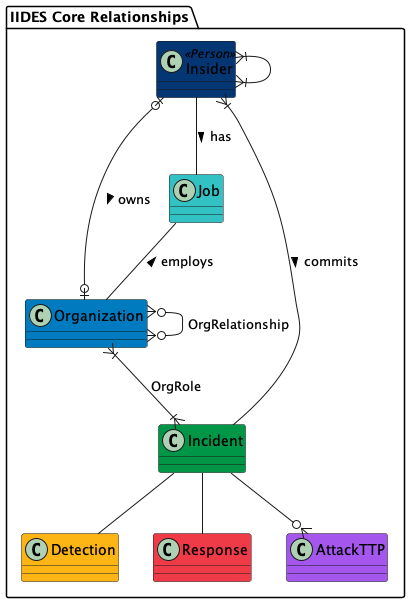
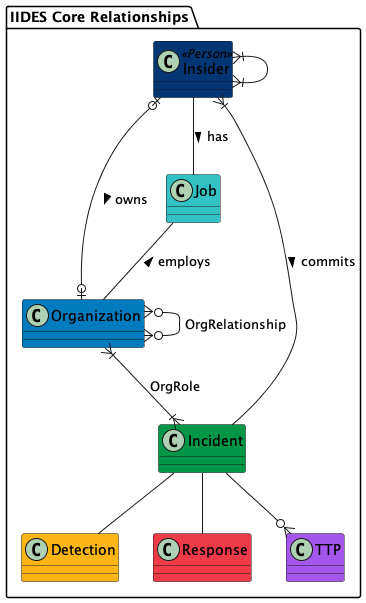
Change attackTTP to TTP

diff --git a/generate_erd.py b/generate_erd.py
@@ -24,7 +24,7 @@ color_map = {
     'Response': '#EF3A47',
     'Legal Response': '#f9b8bd',
     'Stressor': '#b0d0ed',
-    'Attack TTP': '#A456ED',
+    'TTP': '#A456ED',
     'State Vocab': '#FFFFFF',
     'Insider Relationship Vocab': '#FFFFFF',
     'Country Vocab': '#FFFFFF',
@@ -135,7 +135,7 @@ relationships = '''
     LegalResponse --|{ CourtCase
     Organization --|{ Stressor
     Stressor }|-- Insider
-    Incident --o{ AttackTTP
+    Incident --o{ TTP
 '''
 f.write(relationships)
 

diff --git a/documentation/WhitePaper.md b/documentation/WhitePaper.md
@@ -8,7 +8,7 @@ Version: 0.1, Revision 1
 ## Background
 
 - bit about MERIT
-- but about our other research
+- bit about our other research
 - users: researchers, analysts, risk managers, practitioners, investigators, simulations/exercises
 
 
@@ -53,6 +53,8 @@ Legal
 
 ## IIDES
 
+IIDES is split into three different 
+
 ### Core Components
 
 The core components of IIDES are Incident, Insider, Organization, Job, Detection, Response, and TTP. Figure X describes the relationships between these core components. 
@@ -65,11 +67,11 @@ An insider threat [Incident](objects/incident.md) can be associated with one or 
 
 When multiple organizations are involved in an incident, they may have relationships to one another, such as a vendor relationship, or a competitor relationship. Organizations may also have different roles within an incident, such as a primary victim, or even a beneficiary of the incident.
 
-A [Detection entity](objects/detection.md) describes...
+A [Detection entity](objects/detection.md) describes details about how, when, and by whom the incident was detected. An incident has only one detection entity.
 
-A [Response entity](objects/response.md) describes...
+A [Response entity](objects/response.md) describes the organization's response to the incident, including technical and behavioral controls, investigation,and legal response. An incident has has only one response entity. 
 
-An incident can have zero, one, or multiple [TTPs](objects/attackTTP.md) TODO detailing the specific actions an insider took over the course of the incident.
+An incident can have zero, one, or multiple [TTPs](objects/attackTTP.md), each of which details a specific action the insider took during the course of the incident.
 
 ### Full Architecture
 
@@ -98,5 +100,7 @@ TODO
 ## Conclusion
 
 ## References
+
+## Licensing and RRO
 
 

diff --git a/documentation/objects/ttp.md b/documentation/objects/ttp.md
@@ -1,11 +1,11 @@
-# Attack TTP
+# TTP
 
 TODO
 
 ## Properties
 
 - **`id`** (required) *(string)* : TODO
-	- Uses pattern: ^attack-ttp--[UUIDv4]
+	- Uses pattern: ^ttp--[UUIDv4]
 - **`date`** *(string)* : TODO
 - **`sequence_num`** *(integer)* : TODO
 - **`observed`** *(boolean)* : TODO

diff --git a/notes.md b/notes.md
@@ -54,7 +54,7 @@ https://jsonschemalint.com/#!/version/draft-07/markup/json
 - [d] Court Case
 - [ ] Charge
 - [ ] Sentence
-- [ ] Attack TTP
+- [ ] TTP
 
 Json/UML:
 - [ ] Examples in UML and json
